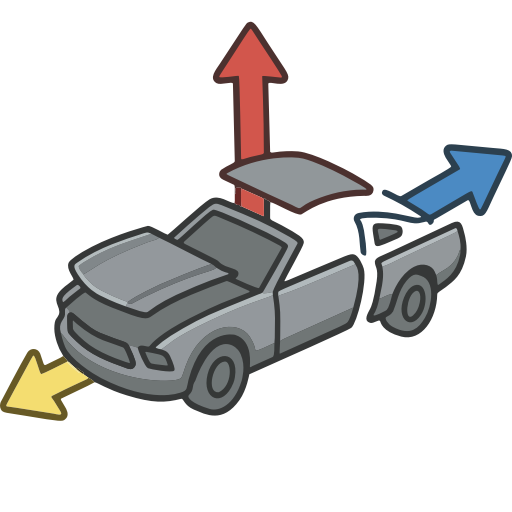
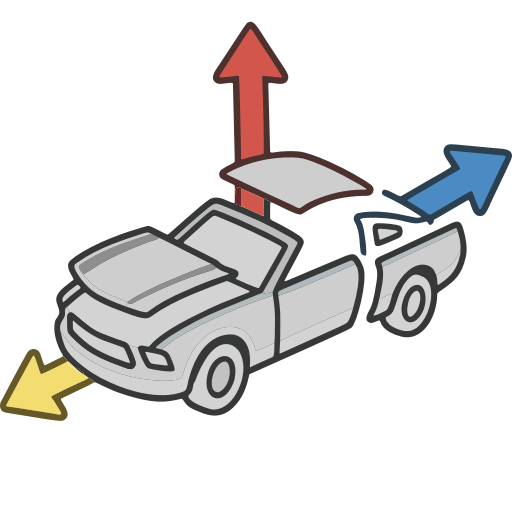
Refreshes Retype-generated documentation.
Process triggered by tonehammer.

Changed region(s): [[0.0938, 0.375, 0.9062, 0.8125], [0.4375, 0.2812, 0.7188, 0.4062], [0.7188, 0.4375, 0.7812, 0.4688]]

diff --git a/resources/js/config.js b/resources/js/config.js
@@ -1,1 +1,1 @@
[2 lines of base64/hex data omitted]

diff --git a/advanced-velocity/timed-events/index.html b/advanced-velocity/timed-events/index.html
@@ -5,7 +5,7 @@
     <meta name="viewport" content="width=device-width,initial-scale=1">
     <meta name="color-scheme" content="light dark">
     <meta name="turbo-root" content="/jvtools-docs">
-    <meta name="turbo-cache-control" content="no-cache" data-turbo-track="reload" data-track-token="4.6.0.838930864959">
+    <meta name="turbo-cache-control" content="no-cache" data-turbo-track="reload" data-track-token="4.6.0.838931729994">
 
     <!-- See retype.com -->
     <meta name="generator" content="Retype 4.6.0">
@@ -38,12 +38,12 @@
 
     <script data-cfasync="false">(function(){var cl=document.documentElement.classList,ls=localStorage.getItem("retype_scheme"),hd=cl.contains("dark"),hl=cl.contains("light"),wm=window.matchMedia&&window.matchMedia("(prefers-color-scheme: dark)").matches;if(ls==="dark"||(!ls&&wm&&!hd&&!hl)){cl.remove("light");cl.add("dark")}else if(ls==="light"||(!ls&&!wm&&!hd&&!hl)){cl.remove("dark");cl.add("light")}})();</script>
 
-    <link href="../../resources/css/retype.css?v=4.6.0.838930864959" rel="stylesheet">
+    <link href="../../resources/css/retype.css?v=4.6.0.838931729994" rel="stylesheet">
 
-    <script data-cfasync="false" src="../../resources/js/config.js?v=4.6.0.838930864959" data-turbo-eval="false" defer></script>
+    <script data-cfasync="false" src="../../resources/js/config.js?v=4.6.0.838931729994" data-turbo-eval="false" defer></script>
     <script data-cfasync="false" src="../../resources/js/retype.js?v=4.6.0" data-turbo-eval="false" defer></script>
-    <script id="lunr-js" data-cfasync="false" src="../../resources/js/lunr.js?v=4.6.0.838930864959" data-turbo-eval="false" defer></script>
-    <script id="prism-js" data-cfasync="false" src="../../resources/js/prism.js?v=4.6.0.838930864959" defer></script>
+    <script id="lunr-js" data-cfasync="false" src="../../resources/js/lunr.js?v=4.6.0.838931729994" data-turbo-eval="false" defer></script>
+    <script id="prism-js" data-cfasync="false" src="../../resources/js/prism.js?v=4.6.0.838931729994" defer></script>
 </head>
 <body>
     <div id="retype-app" class="relative text-base antialiased text-base-text bg-base-bg font-body">
@@ -425,7 +425,7 @@
     <a href="/jvtools-docs/advanced-velocity/" class="group card-compact no-link">
         <div class="card-compact-body">
             <div class="card-compact-header">
-                <span class="card-compact-icon inline-flex shrink-0"><img width="20" height="20" src="static/advanced_velocity_logo_arrows.png"></span>
+                <span class="card-compact-icon inline-flex shrink-0"><img width="20" height="20" src="static/advanced_velocity_icon.png"></span>
                 <span class="card-compact-title">Advanced Velocity</span>
             </div>
             <p class="card-compact-description">Welcome! Advanced Velocity (v1.0) is a single Houdini SOP that authors the @v velocity attribute your simulations read — fixed, aimed, exploding, inherited from motion, turbulent — and blends them together on one node.</p>

diff --git a/advanced-velocity/index.html b/advanced-velocity/index.html
@@ -5,7 +5,7 @@
     <meta name="viewport" content="width=device-width,initial-scale=1">
     <meta name="color-scheme" content="light dark">
     <meta name="turbo-root" content="/jvtools-docs">
-    <meta name="turbo-cache-control" content="no-cache" data-turbo-track="reload" data-track-token="4.6.0.838930864959">
+    <meta name="turbo-cache-control" content="no-cache" data-turbo-track="reload" data-track-token="4.6.0.838931729994">
 
     <!-- See retype.com -->
     <meta name="generator" content="Retype 4.6.0">
@@ -38,11 +38,11 @@
 
     <script data-cfasync="false">(function(){var cl=document.documentElement.classList,ls=localStorage.getItem("retype_scheme"),hd=cl.contains("dark"),hl=cl.contains("light"),wm=window.matchMedia&&window.matchMedia("(prefers-color-scheme: dark)").matches;if(ls==="dark"||(!ls&&wm&&!hd&&!hl)){cl.remove("light");cl.add("dark")}else if(ls==="light"||(!ls&&!wm&&!hd&&!hl)){cl.remove("dark");cl.add("light")}})();</script>
 
-    <link href="../resources/css/retype.css?v=4.6.0.838930864959" rel="stylesheet">
+    <link href="../resources/css/retype.css?v=4.6.0.838931729994" rel="stylesheet">
 
-    <script data-cfasync="false" src="../resources/js/config.js?v=4.6.0.838930864959" data-turbo-eval="false" defer></script>
+    <script data-cfasync="false" src="../resources/js/config.js?v=4.6.0.838931729994" data-turbo-eval="false" defer></script>
     <script data-cfasync="false" src="../resources/js/retype.js?v=4.6.0" data-turbo-eval="false" defer></script>
-    <script id="lunr-js" data-cfasync="false" src="../resources/js/lunr.js?v=4.6.0.838930864959" data-turbo-eval="false" defer></script>
+    <script id="lunr-js" data-cfasync="false" src="../resources/js/lunr.js?v=4.6.0.838931729994" data-turbo-eval="false" defer></script>
 </head>
 <body>
     <div id="retype-app" class="relative text-base antialiased text-base-text bg-base-bg font-body">
@@ -199,7 +199,7 @@
                 <!-- Page content  -->
 <h1 id="advanced-velocity">Advanced Velocity</h1>
 <div style="text-align:center; margin:0.5rem 0 1.5rem;">
-  <img src="static/advanced_velocity_logo.png" alt="Advanced Velocity" width="180" style="max-width:55%; border-radius:16px;">
+  <img src="static/advanced_velocity_icon.png" alt="Advanced Velocity" width="180" style="max-width:55%; border-radius:16px;">
 </div>
 <p style="text-align:center; margin:0 0 1.5rem;"><a href="https://jvtonehammer.gumroad.com/l/advanced_velocity_hda"><strong>Get it on Gumroad →</strong></a></p>
 <p>Welcome! <strong>Advanced Velocity</strong> (v1.0) is a single Houdini SOP that authors the <code translate="no" v-pre>@v</code> velocity attribute your simulations read — fixed, aimed, exploding, inherited from motion, turbulent — and blends them together on one node. And because one velocity is rarely the whole story, it can also play a whole <em>sequence</em> of velocity events over time: a car lifted at frame 10, torn apart at frame 40, spun at frame 70, all from one node.</p>

diff --git a/advanced-velocity/parameters/index.html b/advanced-velocity/parameters/index.html
@@ -5,7 +5,7 @@
     <meta name="viewport" content="width=device-width,initial-scale=1">
     <meta name="color-scheme" content="light dark">
     <meta name="turbo-root" content="/jvtools-docs">
-    <meta name="turbo-cache-control" content="no-cache" data-turbo-track="reload" data-track-token="4.6.0.838930864959">
+    <meta name="turbo-cache-control" content="no-cache" data-turbo-track="reload" data-track-token="4.6.0.838931729994">
 
     <!-- See retype.com -->
     <meta name="generator" content="Retype 4.6.0">
@@ -38,11 +38,11 @@
 
     <script data-cfasync="false">(function(){var cl=document.documentElement.classList,ls=localStorage.getItem("retype_scheme"),hd=cl.contains("dark"),hl=cl.contains("light"),wm=window.matchMedia&&window.matchMedia("(prefers-color-scheme: dark)").matches;if(ls==="dark"||(!ls&&wm&&!hd&&!hl)){cl.remove("light");cl.add("dark")}else if(ls==="light"||(!ls&&!wm&&!hd&&!hl)){cl.remove("dark");cl.add("light")}})();</script>
 
-    <link href="../../resources/css/retype.css?v=4.6.0.838930864959" rel="stylesheet">
+    <link href="../../resources/css/retype.css?v=4.6.0.838931729994" rel="stylesheet">
 
-    <script data-cfasync="false" src="../../resources/js/config.js?v=4.6.0.838930864959" data-turbo-eval="false" defer></script>
+    <script data-cfasync="false" src="../../resources/js/config.js?v=4.6.0.838931729994" data-turbo-eval="false" defer></script>
     <script data-cfasync="false" src="../../resources/js/retype.js?v=4.6.0" data-turbo-eval="false" defer></script>
-    <script id="lunr-js" data-cfasync="false" src="../../resources/js/lunr.js?v=4.6.0.838930864959" data-turbo-eval="false" defer></script>
+    <script id="lunr-js" data-cfasync="false" src="../../resources/js/lunr.js?v=4.6.0.838931729994" data-turbo-eval="false" defer></script>
 </head>
 <body>
     <div id="retype-app" class="relative text-base antialiased text-base-text bg-base-bg font-body">
@@ -1087,7 +1087,7 @@
     <a href="/jvtools-docs/advanced-velocity/" class="group card-compact no-link">
         <div class="card-compact-body">
             <div class="card-compact-header">
-                <span class="card-compact-icon inline-flex shrink-0"><img width="20" height="20" src="static/advanced_velocity_logo_arrows.png"></span>
+                <span class="card-compact-icon inline-flex shrink-0"><img width="20" height="20" src="static/advanced_velocity_icon.png"></span>
                 <span class="card-compact-title">Advanced Velocity</span>
             </div>
             <p class="card-compact-description">Welcome! Advanced Velocity (v1.0) is a single Houdini SOP that authors the @v velocity attribute your simulations read — fixed, aimed, exploding, inherited from motion, turbulent — and blends them together on one node.</p>

diff --git a/advanced-velocity/getting-started/index.html b/advanced-velocity/getting-started/index.html
@@ -5,7 +5,7 @@
     <meta name="viewport" content="width=device-width,initial-scale=1">
     <meta name="color-scheme" content="light dark">
     <meta name="turbo-root" content="/jvtools-docs">
-    <meta name="turbo-cache-control" content="no-cache" data-turbo-track="reload" data-track-token="4.6.0.838930864959">
+    <meta name="turbo-cache-control" content="no-cache" data-turbo-track="reload" data-track-token="4.6.0.838931729994">
 
     <!-- See retype.com -->
     <meta name="generator" content="Retype 4.6.0">
@@ -38,11 +38,11 @@
 
     <script data-cfasync="false">(function(){var cl=document.documentElement.classList,ls=localStorage.getItem("retype_scheme"),hd=cl.contains("dark"),hl=cl.contains("light"),wm=window.matchMedia&&window.matchMedia("(prefers-color-scheme: dark)").matches;if(ls==="dark"||(!ls&&wm&&!hd&&!hl)){cl.remove("light");cl.add("dark")}else if(ls==="light"||(!ls&&!wm&&!hd&&!hl)){cl.remove("dark");cl.add("light")}})();</script>
 
-    <link href="../../resources/css/retype.css?v=4.6.0.838930864959" rel="stylesheet">
+    <link href="../../resources/css/retype.css?v=4.6.0.838931729994" rel="stylesheet">
 
-    <script data-cfasync="false" src="../../resources/js/config.js?v=4.6.0.838930864959" data-turbo-eval="false" defer></script>
+    <script data-cfasync="false" src="../../resources/js/config.js?v=4.6.0.838931729994" data-turbo-eval="false" defer></script>
     <script data-cfasync="false" src="../../resources/js/retype.js?v=4.6.0" data-turbo-eval="false" defer></script>
-    <script id="lunr-js" data-cfasync="false" src="../../resources/js/lunr.js?v=4.6.0.838930864959" data-turbo-eval="false" defer></script>
+    <script id="lunr-js" data-cfasync="false" src="../../resources/js/lunr.js?v=4.6.0.838931729994" data-turbo-eval="false" defer></script>
 </head>
 <body>
     <div id="retype-app" class="relative text-base antialiased text-base-text bg-base-bg font-body">
@@ -289,7 +289,7 @@
     <a href="/jvtools-docs/advanced-velocity/" class="group card-compact no-link">
         <div class="card-compact-body">
             <div class="card-compact-header">
-                <span class="card-compact-icon inline-flex shrink-0"><img width="20" height="20" src="static/advanced_velocity_logo_arrows.png"></span>
+                <span class="card-compact-icon inline-flex shrink-0"><img width="20" height="20" src="static/advanced_velocity_icon.png"></span>
                 <span class="card-compact-title">Advanced Velocity</span>
             </div>
             <p class="card-compact-description">Welcome! Advanced Velocity (v1.0) is a single Houdini SOP that authors the @v velocity attribute your simulations read — fixed, aimed, exploding, inherited from motion, turbulent — and blends them together on one node.</p>

diff --git a/advanced-velocity/troubleshooting/index.html b/advanced-velocity/troubleshooting/index.html
@@ -5,7 +5,7 @@
     <meta name="viewport" content="width=device-width,initial-scale=1">
     <meta name="color-scheme" content="light dark">
     <meta name="turbo-root" content="/jvtools-docs">
-    <meta name="turbo-cache-control" content="no-cache" data-turbo-track="reload" data-track-token="4.6.0.838930864959">
+    <meta name="turbo-cache-control" content="no-cache" data-turbo-track="reload" data-track-token="4.6.0.838931729994">
 
     <!-- See retype.com -->
     <meta name="generator" content="Retype 4.6.0">
@@ -38,11 +38,11 @@
 
     <script data-cfasync="false">(function(){var cl=document.documentElement.classList,ls=localStorage.getItem("retype_scheme"),hd=cl.contains("dark"),hl=cl.contains("light"),wm=window.matchMedia&&window.matchMedia("(prefers-color-scheme: dark)").matches;if(ls==="dark"||(!ls&&wm&&!hd&&!hl)){cl.remove("light");cl.add("dark")}else if(ls==="light"||(!ls&&!wm&&!hd&&!hl)){cl.remove("dark");cl.add("light")}})();</script>
 
-    <link href="../../resources/css/retype.css?v=4.6.0.838930864959" rel="stylesheet">
+    <link href="../../resources/css/retype.css?v=4.6.0.838931729994" rel="stylesheet">
 
-    <script data-cfasync="false" src="../../resources/js/config.js?v=4.6.0.838930864959" data-turbo-eval="false" defer></script>
+    <script data-cfasync="false" src="../../resources/js/config.js?v=4.6.0.838931729994" data-turbo-eval="false" defer></script>
     <script data-cfasync="false" src="../../resources/js/retype.js?v=4.6.0" data-turbo-eval="false" defer></script>
-    <script id="lunr-js" data-cfasync="false" src="../../resources/js/lunr.js?v=4.6.0.838930864959" data-turbo-eval="false" defer></script>
+    <script id="lunr-js" data-cfasync="false" src="../../resources/js/lunr.js?v=4.6.0.838931729994" data-turbo-eval="false" defer></script>
 </head>
 <body>
     <div id="retype-app" class="relative text-base antialiased text-base-text bg-base-bg font-body">
@@ -251,7 +251,7 @@
     <a href="/jvtools-docs/advanced-velocity/" class="group card-compact no-link">
         <div class="card-compact-body">
             <div class="card-compact-header">
-                <span class="card-compact-icon inline-flex shrink-0"><img width="20" height="20" src="static/advanced_velocity_logo_arrows.png"></span>
+                <span class="card-compact-icon inline-flex shrink-0"><img width="20" height="20" src="static/advanced_velocity_icon.png"></span>
                 <span class="card-compact-title">Advanced Velocity</span>
             </div>
             <p class="card-compact-description">Welcome! Advanced Velocity (v1.0) is a single Houdini SOP that authors the @v velocity attribute your simulations read — fixed, aimed, exploding, inherited from motion, turbulent — and blends them together on one node.</p>

diff --git a/advanced-velocity/using/index.html b/advanced-velocity/using/index.html
@@ -5,7 +5,7 @@
     <meta name="viewport" content="width=device-width,initial-scale=1">
     <meta name="color-scheme" content="light dark">
     <meta name="turbo-root" content="/jvtools-docs">
-    <meta name="turbo-cache-control" content="no-cache" data-turbo-track="reload" data-track-token="4.6.0.838930864959">
+    <meta name="turbo-cache-control" content="no-cache" data-turbo-track="reload" data-track-token="4.6.0.838931729994">
 
     <!-- See retype.com -->
     <meta name="generator" content="Retype 4.6.0">
@@ -38,11 +38,11 @@
 
     <script data-cfasync="false">(function(){var cl=document.documentElement.classList,ls=localStorage.getItem("retype_scheme"),hd=cl.contains("dark"),hl=cl.contains("light"),wm=window.matchMedia&&window.matchMedia("(prefers-color-scheme: dark)").matches;if(ls==="dark"||(!ls&&wm&&!hd&&!hl)){cl.remove("light");cl.add("dark")}else if(ls==="light"||(!ls&&!wm&&!hd&&!hl)){cl.remove("dark");cl.add("light")}})();</script>
 
-    <link href="../../resources/css/retype.css?v=4.6.0.838930864959" rel="stylesheet">
+    <link href="../../resources/css/retype.css?v=4.6.0.838931729994" rel="stylesheet">
 
-    <script data-cfasync="false" src="../../resources/js/config.js?v=4.6.0.838930864959" data-turbo-eval="false" defer></script>
+    <script data-cfasync="false" src="../../resources/js/config.js?v=4.6.0.838931729994" data-turbo-eval="false" defer></script>
     <script data-cfasync="false" src="../../resources/js/retype.js?v=4.6.0" data-turbo-eval="false" defer></script>
-    <script id="lunr-js" data-cfasync="false" src="../../resources/js/lunr.js?v=4.6.0.838930864959" data-turbo-eval="false" defer></script>
+    <script id="lunr-js" data-cfasync="false" src="../../resources/js/lunr.js?v=4.6.0.838931729994" data-turbo-eval="false" defer></script>
 </head>
 <body>
     <div id="retype-app" class="relative text-base antialiased text-base-text bg-base-bg font-body">
@@ -352,7 +352,7 @@
     <a href="/jvtools-docs/advanced-velocity/" class="group card-compact no-link">
         <div class="card-compact-body">
             <div class="card-compact-header">
-                <span class="card-compact-icon inline-flex shrink-0"><img width="20" height="20" src="static/advanced_velocity_logo_arrows.png"></span>
+                <span class="card-compact-icon inline-flex shrink-0"><img width="20" height="20" src="static/advanced_velocity_icon.png"></span>
                 <span class="card-compact-title">Advanced Velocity</span>
             </div>
             <p class="card-compact-description">Welcome! Advanced Velocity (v1.0) is a single Houdini SOP that authors the @v velocity attribute your simulations read — fixed, aimed, exploding, inherited from motion, turbulent — and blends them together on one node.</p>

diff --git a/404.html b/404.html
@@ -5,7 +5,7 @@
     <meta name="viewport" content="width=device-width,initial-scale=1">
     <meta name="color-scheme" content="light dark">
     <meta name="turbo-root" content="/jvtools-docs">
-    <meta name="turbo-cache-control" content="no-cache" data-turbo-track="reload" data-track-token="4.6.0.838930864959">
+    <meta name="turbo-cache-control" content="no-cache" data-turbo-track="reload" data-track-token="4.6.0.838931729994">
 
     <!-- See retype.com -->
     <meta name="generator" content="Retype 4.6.0">
@@ -32,11 +32,11 @@
 
     <script data-cfasync="false">(function(){var cl=document.documentElement.classList,ls=localStorage.getItem("retype_scheme"),hd=cl.contains("dark"),hl=cl.contains("light"),wm=window.matchMedia&&window.matchMedia("(prefers-color-scheme: dark)").matches;if(ls==="dark"||(!ls&&wm&&!hd&&!hl)){cl.remove("light");cl.add("dark")}else if(ls==="light"||(!ls&&!wm&&!hd&&!hl)){cl.remove("dark");cl.add("light")}})();</script>
 
-    <link href="/jvtools-docs/resources/css/retype.css?v=4.6.0.838930864959" rel="stylesheet">
+    <link href="/jvtools-docs/resources/css/retype.css?v=4.6.0.838931729994" rel="stylesheet">
 
-    <script data-cfasync="false" src="/jvtools-docs/resources/js/config.js?v=4.6.0.838930864959" data-turbo-eval="false" defer></script>
+    <script data-cfasync="false" src="/jvtools-docs/resources/js/config.js?v=4.6.0.838931729994" data-turbo-eval="false" defer></script>
     <script data-cfasync="false" src="/jvtools-docs/resources/js/retype.js?v=4.6.0" data-turbo-eval="false" defer></script>
-    <script id="lunr-js" data-cfasync="false" src="/jvtools-docs/resources/js/lunr.js?v=4.6.0.838930864959" data-turbo-eval="false" defer></script>
+    <script id="lunr-js" data-cfasync="false" src="/jvtools-docs/resources/js/lunr.js?v=4.6.0.838931729994" data-turbo-eval="false" defer></script>
 </head>
 <body>
     <div id="retype-app" class="relative text-base antialiased text-base-text bg-base-bg font-body">

diff --git a/reallusion-importer/getting-started/import-modes/index.html b/reallusion-importer/getting-started/import-modes/index.html
@@ -5,7 +5,7 @@
     <meta name="viewport" content="width=device-width,initial-scale=1">
     <meta name="color-scheme" content="light dark">
     <meta name="turbo-root" content="/jvtools-docs">
-    <meta name="turbo-cache-control" content="no-cache" data-turbo-track="reload" data-track-token="4.6.0.838930864959">
+    <meta name="turbo-cache-control" content="no-cache" data-turbo-track="reload" data-track-token="4.6.0.838931729994">
 
     <!-- See retype.com -->
     <meta name="generator" content="Retype 4.6.0">
@@ -44,11 +44,11 @@
 
     <script data-cfasync="false">(function(){var cl=document.documentElement.classList,ls=localStorage.getItem("retype_scheme"),hd=cl.contains("dark"),hl=cl.contains("light"),wm=window.matchMedia&&window.matchMedia("(prefers-color-scheme: dark)").matches;if(ls==="dark"||(!ls&&wm&&!hd&&!hl)){cl.remove("light");cl.add("dark")}else if(ls==="light"||(!ls&&!wm&&!hd&&!hl)){cl.remove("dark");cl.add("light")}})();</script>
 
-    <link href="../../../resources/css/retype.css?v=4.6.0.838930864959" rel="stylesheet">
+    <link href="../../../resources/css/retype.css?v=4.6.0.838931729994" rel="stylesheet">
 
-    <script data-cfasync="false" src="../../../resources/js/config.js?v=4.6.0.838930864959" data-turbo-eval="false" defer></script>
+    <script data-cfasync="false" src="../../../resources/js/config.js?v=4.6.0.838931729994" data-turbo-eval="false" defer></script>
     <script data-cfasync="false" src="../../../resources/js/retype.js?v=4.6.0" data-turbo-eval="false" defer></script>
-    <script id="lunr-js" data-cfasync="false" src="../../../resources/js/lunr.js?v=4.6.0.838930864959" data-turbo-eval="false" defer></script>
+    <script id="lunr-js" data-cfasync="false" src="../../../resources/js/lunr.js?v=4.6.0.838931729994" data-turbo-eval="false" defer></script>
 </head>
 <body>
     <div id="retype-app" class="relative text-base antialiased text-base-text bg-base-bg font-body">

diff --git a/reallusion-importer/getting-started/installation/index.html b/reallusion-importer/getting-started/installation/index.html
@@ -5,7 +5,7 @@
     <meta name="viewport" content="width=device-width,initial-scale=1">
     <meta name="color-scheme" content="light dark">
     <meta name="turbo-root" content="/jvtools-docs">
-    <meta name="turbo-cache-control" content="no-cache" data-turbo-track="reload" data-track-token="4.6.0.838930864959">
+    <meta name="turbo-cache-control" content="no-cache" data-turbo-track="reload" data-track-token="4.6.0.838931729994">
 
     <!-- See retype.com -->
     <meta name="generator" content="Retype 4.6.0">
@@ -44,11 +44,11 @@
 
     <script data-cfasync="false">(function(){var cl=document.documentElement.classList,ls=localStorage.getItem("retype_scheme"),hd=cl.contains("dark"),hl=cl.contains("light"),wm=window.matchMedia&&window.matchMedia("(prefers-color-scheme: dark)").matches;if(ls==="dark"||(!ls&&wm&&!hd&&!hl)){cl.remove("light");cl.add("dark")}else if(ls==="light"||(!ls&&!wm&&!hd&&!hl)){cl.remove("dark");cl.add("light")}})();</script>
 
-    <link href="../../../resources/css/retype.css?v=4.6.0.838930864959" rel="stylesheet">
+    <link href="../../../resources/css/retype.css?v=4.6.0.838931729994" rel="stylesheet">
 
-    <script data-cfasync="false" src="../../../resources/js/config.js?v=4.6.0.838930864959" data-turbo-eval="false" defer></script>
+    <script data-cfasync="false" src="../../../resources/js/config.js?v=4.6.0.838931729994" data-turbo-eval="false" defer></script>
     <script data-cfasync="false" src="../../../resources/js/retype.js?v=4.6.0" data-turbo-eval="false" defer></script>
-    <script id="lunr-js" data-cfasync="false" src="../../../resources/js/lunr.js?v=4.6.0.838930864959" data-turbo-eval="false" defer></script>
+    <script id="lunr-js" data-cfasync="false" src="../../../resources/js/lunr.js?v=4.6.0.838931729994" data-turbo-eval="false" defer></script>
 </head>
 <body>
     <div id="retype-app" class="relative text-base antialiased text-base-text bg-base-bg font-body">

diff --git a/reallusion-importer/getting-started/preparing-your-character/index.html b/reallusion-importer/getting-started/preparing-your-character/index.html
@@ -5,7 +5,7 @@
     <meta name="viewport" content="width=device-width,initial-scale=1">
     <meta name="color-scheme" content="light dark">
     <meta name="turbo-root" content="/jvtools-docs">
-    <meta name="turbo-cache-control" content="no-cache" data-turbo-track="reload" data-track-token="4.6.0.838930864959">
+    <meta name="turbo-cache-control" content="no-cache" data-turbo-track="reload" data-track-token="4.6.0.838931729994">
 
     <!-- See retype.com -->
     <meta name="generator" content="Retype 4.6.0">
@@ -44,11 +44,11 @@
 
     <script data-cfasync="false">(function(){var cl=document.documentElement.classList,ls=localStorage.getItem("retype_scheme"),hd=cl.contains("dark"),hl=cl.contains("light"),wm=window.matchMedia&&window.matchMedia("(prefers-color-scheme: dark)").matches;if(ls==="dark"||(!ls&&wm&&!hd&&!hl)){cl.remove("light");cl.add("dark")}else if(ls==="light"||(!ls&&!wm&&!hd&&!hl)){cl.remove("dark");cl.add("light")}})();</script>
 
-    <link href="../../../resources/css/retype.css?v=4.6.0.838930864959" rel="stylesheet">
+    <link href="../../../resources/css/retype.css?v=4.6.0.838931729994" rel="stylesheet">
 
-    <script data-cfasync="false" src="../../../resources/js/config.js?v=4.6.0.838930864959" data-turbo-eval="false" defer></script>
+    <script data-cfasync="false" src="../../../resources/js/config.js?v=4.6.0.838931729994" data-turbo-eval="false" defer></script>
     <script data-cfasync="false" src="../../../resources/js/retype.js?v=4.6.0" data-turbo-eval="false" defer></script>
-    <script id="lunr-js" data-cfasync="false" src="../../../resources/js/lunr.js?v=4.6.0.838930864959" data-turbo-eval="false" defer></script>
+    <script id="lunr-js" data-cfasync="false" src="../../../resources/js/lunr.js?v=4.6.0.838931729994" data-turbo-eval="false" defer></script>
 </head>
 <body>
     <div id="retype-app" class="relative text-base antialiased text-base-text bg-base-bg font-body">

diff --git a/reallusion-importer/getting-started/quick-start/index.html b/reallusion-importer/getting-started/quick-start/index.html
@@ -5,7 +5,7 @@
     <meta name="viewport" content="width=device-width,initial-scale=1">
     <meta name="color-scheme" content="light dark">
     <meta name="turbo-root" content="/jvtools-docs">
-    <meta name="turbo-cache-control" content="no-cache" data-turbo-track="reload" data-track-token="4.6.0.838930864959">
+    <meta name="turbo-cache-control" content="no-cache" data-turbo-track="reload" data-track-token="4.6.0.838931729994">
 
     <!-- See retype.com -->
     <meta name="generator" content="Retype 4.6.0">
@@ -44,11 +44,11 @@
 
     <script data-cfasync="false">(function(){var cl=document.documentElement.classList,ls=localStorage.getItem("retype_scheme"),hd=cl.contains("dark"),hl=cl.contains("light"),wm=window.matchMedia&&window.matchMedia("(prefers-color-scheme: dark)").matches;if(ls==="dark"||(!ls&&wm&&!hd&&!hl)){cl.remove("light");cl.add("dark")}else if(ls==="light"||(!ls&&!wm&&!hd&&!hl)){cl.remove("dark");cl.add("light")}})();</script>
 
-    <link href="../../../resources/css/retype.css?v=4.6.0.838930864959" rel="stylesheet">
+    <link href="../../../resources/css/retype.css?v=4.6.0.838931729994" rel="stylesheet">
 
-    <script data-cfasync="false" src="../../../resources/js/config.js?v=4.6.0.838930864959" data-turbo-eval="false" defer></script>
+    <script data-cfasync="false" src="../../../resources/js/config.js?v=4.6.0.838931729994" data-turbo-eval="false" defer></script>
     <script data-cfasync="false" src="../../../resources/js/retype.js?v=4.6.0" data-turbo-eval="false" defer></script>
-    <script id="lunr-js" data-cfasync="false" src="../../../resources/js/lunr.js?v=4.6.0.838930864959" data-turbo-eval="false" defer></script>
+    <script id="lunr-js" data-cfasync="false" src="../../../resources/js/lunr.js?v=4.6.0.838931729994" data-turbo-eval="false" defer></script>
 </head>
 <body>
     <div id="retype-app" class="relative text-base antialiased text-base-text bg-base-bg font-body">
